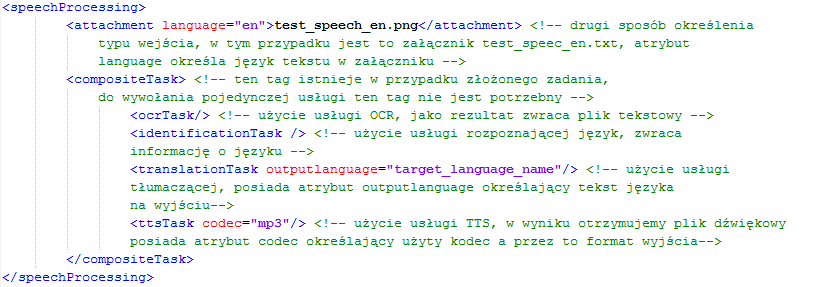
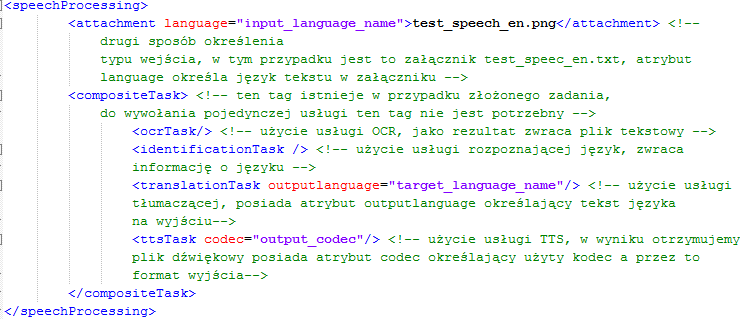
kurwa kurwa kurwa

Changed region(s): [[0.0, 0.0, 1.0, 1.0]]

diff --git a/2/problem_analysis.tex b/2/problem_analysis.tex
@@ -262,15 +262,15 @@ Podrozdział ten ma na celu przedstawić  jakie wymagania można postawić przed
 Oczywiście każde z wyżej wymienionych zadań może zostać zrealizowane osobno przez odpowiednie aplikacje. Dlatego, gotowy system powinien być w stanie realizować każdą z nich osobna jak i każdą możliwą i sensowną kombinację. Dobrym przykładem takiej złożonej funkcjonalności jest zamiana pliku w formacie graficznym, będącym zdjęciem np. strony książki(napisanej w nieznanym języku) na dźwięk w jakimś innym, konkretnym, zdefiniowanym przez użytkownika języku. Aby to osiągnąć należy poinformować system o tym z których usług należy skorzystać i w jakiej kolejności je wywołać. Oczywiście idealnym i na szczęście możliwym rozwiązaniem jest ukrycie całej implementacji za jednym prostym interfejsem. Jednym z przykładowych rozwiązań tego problemu może być plik konfiguracyjny (na przykład w formacie xml) wysyłany razem z danymi wejściowymi. Przykładowa struktura takiego pliku mogłaby wyglądać następująco:
  \begin{itemize}
 	\item \textless speechProcessingInstructions\textgreater - podstawowy element, będący korzeniem dla całego pliku,
-	\item \textless readImage\textgreater - wystąpienie tego elementu oznacza, że na wejściu należy oczekiwać pliku graficznego, zawierającego tekst, na którym zostanie wywołana usługa OCR, w efekcie czego powstanie plik tekstowy,
-	\item \textless identifyLanguage\textgreater - element oznaczający konieczność użycia usługi rozpoznającej język, na wejściu oczekującej pliku tekstowego, zwracającej informację o języku,
-	\item \textless translate\textgreater - element wymuszający użycie translatora, na wejściu oczekuje pliku tekstowego, zwraca plik tekstowy, posiada następujące węzły potomne:
+	\item \textless ocrTask\textgreater - wystąpienie tego elementu oznacza, że na wejściu należy oczekiwać pliku graficznego, zawierającego tekst, na którym zostanie wywołana usługa OCR, w efekcie czego powstanie plik tekstowy,
+	\item \textless identificationTask\textgreater - element oznaczający konieczność użycia usługi rozpoznającej język, na wejściu oczekującej pliku tekstowego, zwracającej informację o języku,
+	\item \textless translationTask\textgreater - element wymuszający użycie translatora, na wejściu oczekuje pliku tekstowego, zwraca plik tekstowy, posiada następujące węzły potomne:
 		 \begin{itemize}
 			\item \textless inputLanguage\textgreater - element, którego zastosowaniem jest zdefiniowane języka tekstu wejściowego, jeżeli operacją poprzednią  było rozpoznanie języka element ten zostanie pominięty
 			\item \textless outputLanguage\textgreater - element, którego zastosowaniem jest zdefiniowane języka tekstu docelowego
 		\end{itemize}
-	\item \textless performTTS\textgreater - element oznaczający konieczność wywołania usługi odpowiadającej za syntezę mowy, na wejściu oczekującej pliku tekstowego, zwracającej plik dźwiękowy,
-	\item \textless performASR\textgreater - wystąpienie tego elementu oznacza użycie usługi odpowiedzialnej  za rozpoznawanie mowy, przyjmuje ona plik dźwiękowy, zwraca plik tekstowy.
+	\item \textless ttsTask\textgreater - element oznaczający konieczność wywołania usługi odpowiadającej za syntezę mowy, na wejściu oczekującej pliku tekstowego, zwracającej plik dźwiękowy,
+	\item \textless asrTask\textgreater - wystąpienie tego elementu oznacza użycie usługi odpowiedzialnej  za rozpoznawanie mowy, przyjmuje ona plik dźwiękowy, zwraca plik tekstowy.
 \end{itemize}
 Zastosowanie takiego formatu ma dużo zalet, z czego najważniejsze to:
 \begin{itemize}
@@ -300,7 +300,7 @@ Podsumowując, zakładając istnienie tak działającego systemu, jedyne zadania
 \end{itemize}
 Jak widać są to rzeczy dość proste i możliwe do bardzo szybkiej implementacji. Oczywiście bardzo łatwo można wyobrazić sobie możliwości rozbudowy takiej platformy. Jednym z kierunków takiej rozbudowy może być chęć wykorzystania innych, niż opisane wyżej(plik graficzny, plik xml) formatów danych wejściowych.  Bardzo pomocne okażą się tutaj punkty końcowe, które są oferowane w bardzo wielu różnych rodzajach, tak jak to zostało opisane wyżej, przez wszystkie implementacje ESB. Łatwo wyobrazić sobie użycie punktów końcowych, można je na przykład wykorzystać aby umożliwić użytkownikowi dostęp do usługi drogą mailową. Wystarczy aby użytkownik wysłał na specjalny, oficjalny, podany mu wcześniej adres, maila zawierającego, w postaci załączników, plik sterujący xml oraz plik wejściowy, na przykład zdjęcie tekstu albo tekst, w efekcie czego otrzymałby maila zwrotnego z danymi uzyskanymi w wyniku wykonania żądanych przez niego operacji. Innym przykładem użycia punktów końcowych, w celu zwiększenia funkcjonalności systemu, mogłoby być rozbudowanie pliku sterującego na przykład o tag \textless rssSource\textgreater który sprawi, że aplikacja zamiast pliku wejściowego pobierze wiadomości ze źródła RSS i na nich wywoła funkcje udostępniane przez różne usługi. Jak widać wykorzystanie punktów końcowych daje wiele możliwości i idealnie wkomponowuje się w dziedzinę problemu, co stanowi kolejny argument na rzecz wykorzystania ESB jako sposobu integracji. \\
 
-Kolejną ważną, wartą omówienia kwestią, wynikającą ze specyficznej dziedziny problemy, jest możliwość wykorzystania strumieniowania, oraz wad i zalet takiego podejścia. Strumieniowanie jest to technika przesyłania polegająca na ciągłym i nieustannym przetwarzaniu danych przez odbiorcę, gdy te wciąż są dostarczane przez nadawcę. Jest ona szeroko wykorzystywana do przesyłania multimediów, na przykład filmów lub też muzyki. Jej zastosowanie pozwala na zmniejszenie opóźnień, użytkownik może przetwarzać dane już po otrzymaniu niewielkiej ich części. Wadą tej techniki jest duże zapotrzebowanie na przepustowość łącza. Autorzy pracy zdecydowali, że przykładowa implementacja platformy dopuszcza istnienie opoźnień dlatego postanowili nie badać tego tematu i pozostawić go jako możliwe rozszerzenie tej pracy. %Warto zaznaczyć, iż główne zastosowanie strumieniowania byłoby przy użyciu serwisów odpowiedzialnych za rozpoznawanie i syntezę mowy. Jest to spowodowane faktem, iż obecne implementacje tych serwisów oferują taka funkcjonalność, strumieniowanie nie ma sensu w przypadku innych serwisów, gdyż są one stosunkowo szybkie, co więcej nie istnieją implemetacje tych serwisów oferujące strumieniowanie.
+Kolejną ważną, wartą omówienia kwestią, wynikającą ze specyficznej dziedziny problemy, jest możliwość wykorzystania strumieniowania, oraz wad i zalet takiego podejścia. Strumieniowanie jest to technika przesyłania polegająca na ciągłym i nieustannym przetwarzaniu danych przez odbiorcę, gdy te wciąż są dostarczane przez nadawcę. Jest ona szeroko wykorzystywana do przesyłania multimediów, na przykład filmów lub też muzyki. Jej zastosowanie pozwala na zmniejszenie opóźnień, użytkownik może przetwarzać dane już po otrzymaniu niewielkiej ich części. Wadą tej techniki jest wymaganie większej przepustowości niż w przypadku zastosowania pakietowego przesyłania danych. Autorzy pracy zdecydowali, że przykładowa implementacja platformy dopuszcza wprowadzenie dodatkowego opoźnienia dlatego postanowili nie badać tego tematu i pozostawić go jako możliwe rozszerzenie tej pracy. %Warto zaznaczyć, iż główne zastosowanie strumieniowania byłoby przy wywołaniu usług odpowiedzialnych za rozpoznawanie i syntezę mowy. Jest to spowodowane faktem, iż obecne ich implementacje oferują taką funkcjonalność. Strumieniowanie nie ma sensu w przypadku innych usług, gdyż są one stosunkowo szybkie, co więcej nie istnieją ich implemetacje oferujące taką formę komunikacji.
 
 \section*{Podsumowanie}
 Biorąc pod uwagę proponowane usługi, format danych wejściowych i wymagania stawiane przed platformą zdecydowanie najlepszym sposobem integracji wydaje się wykorzystanie jednej z istniejących implementacji ESB. Wszystkie one zapewniają routing, dużo różnych rodzajów punktów końcowych, wsparcie dla aplikacji pisanych przy użyciu technologii Spring i wiele innych rzeczy które nie tylko ułatwiają sam proces integracji ale również zapewniają możliwość łatwej rozbudowy w przyszłości.

diff --git a/1_introduction/introduction.tex b/1_introduction/introduction.tex
@@ -49,7 +49,7 @@ Integracja nie jest problemem nowym, jest już dobrze zbadana(szczególnie integ
 Odpowiedzi na te i wiele innych pytań oraz przykładowa implementacja takiego systemu, nazwana SpeechProcessingPlatform,  przedstawione są w kolejnych rozdziałach.
 
 \section{Obszar badań} % subsection headings are again smaller than section names
-Praca ta korzysta z technologii związanych zarówno z architekturą SOA jak i z przetwarzaniem mowy. W celu użycia odpowiednich narzędzi przeprowadzono wiele badań i testów w czasie których dużą wagę przykładano do:
+W zakres pracy wchodzą technologie związane zarówno z architekturą SOA jak i z przetwarzaniem mowy. W celu użycia odpowiednich narzędzi przeprowadzono wiele badań i testów w czasie których dużą wagę przykładano do:
 \begin{itemize}
  	\item możliwości konfiguracyjnych
 	\item wydajności
